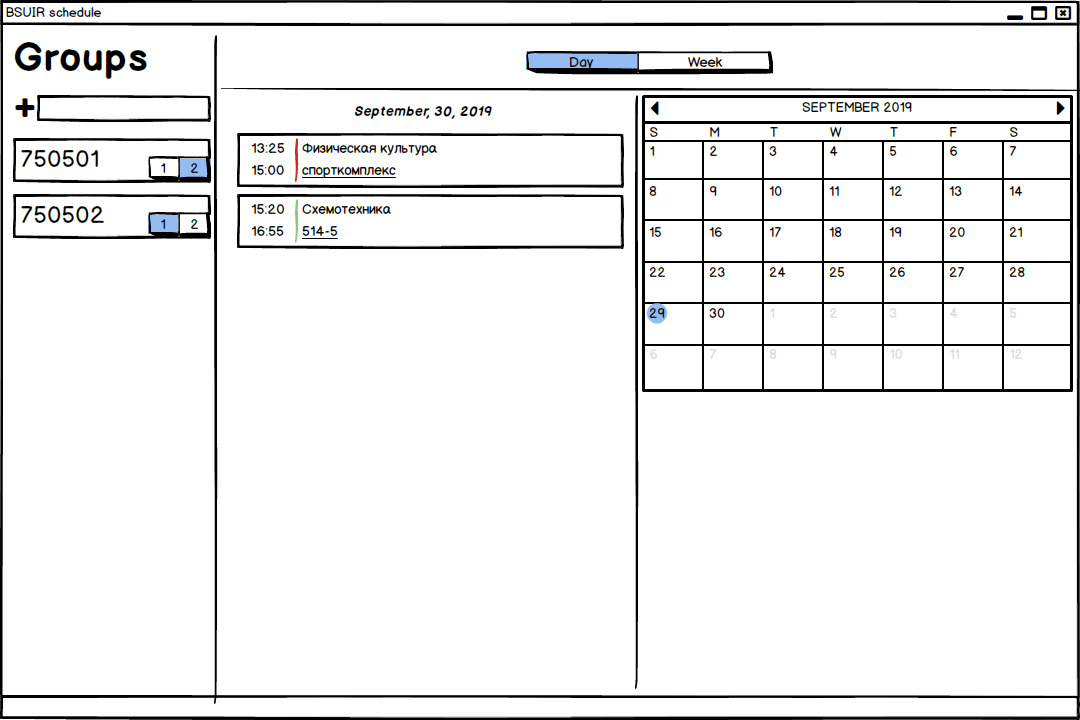
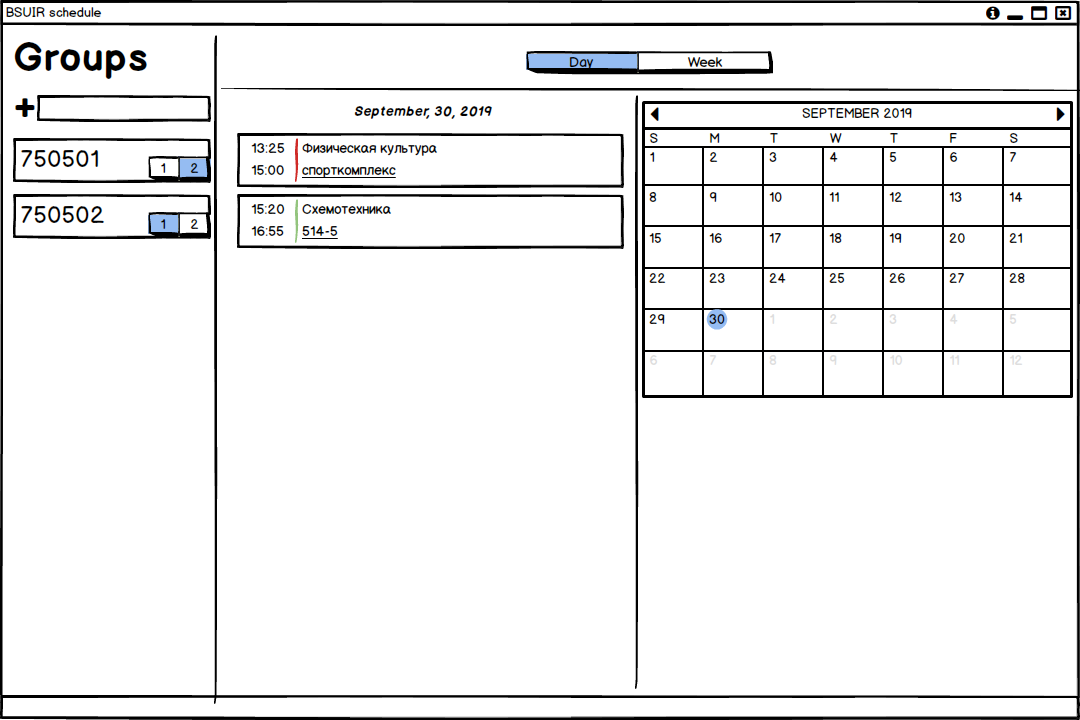
edit Requirements Documents and update images

diff --git a/Documents/Requirements/Requirements Document.md b/Documents/Requirements/Requirements Document.md
@@ -1,4 +1,4 @@
-# Требования к проекту
+# Спецификация требоаваний к программному обеспечению
 ---
 
 # Содержание
@@ -9,7 +9,9 @@
 1.2.2 [Возможности бизнеса](#business_opportunities)  
 1.2.3 [Границы проекта](#project_boundary)   
 2 [Требования пользователя](#user_requirements)  
-2.1 [Программные интерфейсы](#software_interfaces)  
+2.1 [Программные интерфейсы](#software_interfaces) 
+2.1.1 [Сервисы](#services) 
+2.1.2 [Билеотеки](#libraries)
 2.2 [Интерфейс пользователя](#user_interface)  
 2.3 [Характеристики пользователей](#user_specifications)   
 2.3.1 [Аудитория приложения](#application_audience)  
@@ -44,7 +46,7 @@
 <a name="initial_data"/>
 
 ### 1.2.1 Исходные данные
-Большинство студентов УО БГУИР просматривают расписание занятий посредством соответсвующих приложений на мобилных устройствах, перехода на веб-сайт iis.bsuir.by. Однако, не всегда мобильное устройство находиться под рукой или может отсутствовать соединение с интернетом, поэтому получение новостей такими способами является неудобным. Однако возможности просмотра расписания занятий на персональном компьютере посредством соответствующего приложения с возможностью кэширования последней актульной информации не реализовано. 
+Большинство студентов УО БГУИР просматривают расписание занятий посредством соответсвующих приложений на мобилных устройствах, перехода на интернет-ресурс iis.bsuir.by. Однако, не всегда мобильное устройство находиться под рукой или может отсутствовать соединение с интернетом, поэтому получение новостей такими способами является неудобным. Однако возможности просмотра расписания занятий на персональном компьютере посредством соответствующего приложения с возможностью кэширования последней актульной информации не реализовано. 
 
 <a name="business_opportunities"/>
 
@@ -61,15 +63,26 @@
 <a name="software_interfaces"/>
 
 ## 2.1 Программные интерфейсы
-Приложение выполняет HTTP запросы на унтернет-ресурс iis.bsuir.by. 
+
+<a name="services">
+
+### 2.1.1 Сервисы
+Интернет-ресур iis.bsuir.by.
+
+<a mame="libraries">
+
+### 2.1.2 Библеотеки
+QtNetwork
 
 <a name="user_interface"/>
 
 ## 2.2 Интерфейс пользователя
-Расписание на день.
-![Расписание на день](https://github.com/AnjeyNov/TRTPO-Project/blob/master/Images/Mockups/Day's%20schedule.png)
-Расписание на неделю.
-![Расписание на неделю](https://github.com/AnjeyNov/TRTPO-Project/blob/master/Images/Mockups/Week's%20schedule.png)
+Просмотр расписания на день.
+![Просмотр расписания на день](https://github.com/AnjeyNov/TRTPO-Project/blob/master/Images/Mockups/Day's%20schedule.png)
+Просмотр расписания на неделю.
+![Просмотр расписания на неделю](https://github.com/AnjeyNov/TRTPO-Project/blob/master/Images/Mockups/Week's%20schedule.png)
+Окно со справкой
+![Окно со справкой](https://github.com/AnjeyNov/TRTPO-Project/blob/master/Images/Mockups/info.png)
 Описание интерфейса
 ![Описание интерфейса](https://github.com/AnjeyNov/TRTPO-Project/blob/master/Images/Mockups/Week's%20schedule%20with%20discripshion.png)
 
@@ -83,13 +96,13 @@
 <a name="target_audience"/>
 
 #### 2.3.1.1 Целевая аудитория
-Студенты УО БГУИР, обладающие минимальной технической грамотностью.
+Студенты УО БГУИР
 
 <a name="collateral_audience"/>
 
 #### 2.3.1.2 Побочная аудитория
-1. Преподаватели УО БГУИР, обладающие вышеперечисленными качествами.
-2. Родители или опекуны студнетов УО БГУИР, обладающие вышеперечисленными качествами.
+1. Преподаватели УО БГУИР.
+2. Родители или опекуны студентов УО БГУИР.
 
 <a name="assumptions_and_dependencies"/>
 
@@ -129,14 +142,17 @@
 <a name="choosing_a_presentation_type"/>
 
 ##### 3.1.1.3 Выбор вида представления
-**Описание.** Приложение должно предоставлять возможность переключить отображаемое расписание без перезапуска приложения.
+**Описание.** Приложение должно предоставлять возможность переключить вид представления расписания без перезапуска приложения.
 
 **Требование.** Выполняется выбор необходимого вида представления и происходит замена отображаемого расписания.
 
 <a name="restrictions_and_exclusions"/>
 
 #### 3.1.2 Ограничения и исключения
-1. Приложение работает только при наличии подключения к Интернету или присутсвии сохраненных данных в кэше
+1. Для работы приложения при первом запуске необходимо подключение к сети Интернет.
+2. При отсуствии подключения к сети Интернет данные необходимые для работы приложения будут браться из кэша.
+3. При отсутствии расписания на удаленном интернет-ресурсе iis.bsuir.by будет выводиться соответсвующее сообщение.
+
 
 <a name="non-functional_requirements"/>
 
@@ -158,5 +174,5 @@
 <a name="restrictions"/>
 
 ### 3.2.3 Ограничения
-1. Приложение реализовано на платформе Qt 5.13.1
-2. Язык реализации приложения: С++
+1. Язык реализации приложения: С++
+2. Приложение реализовано на платформе Qt 5.13.1
